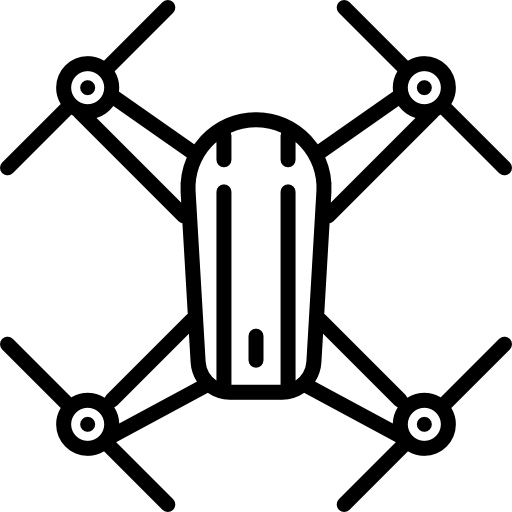
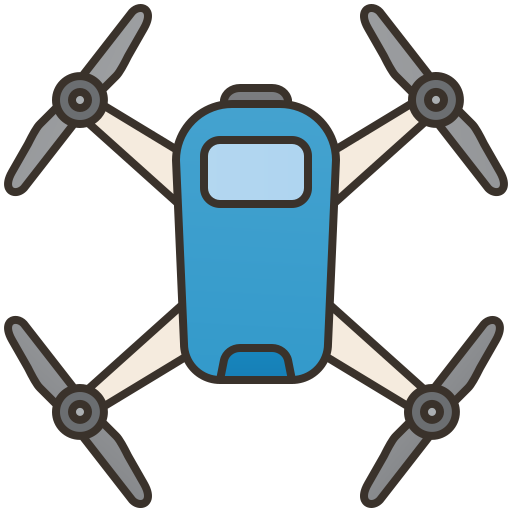
.

diff --git a/src/parser/parsing.py b/src/parser/parsing.py
@@ -3,6 +3,7 @@ from ..models.connection_class import Connection
 import sys
 class Pars_exception(Exception):
     pass
+
 class Read_input_file:
     def __init__(self):
         self.nb_drones = 0
@@ -18,7 +19,8 @@ class Read_input_file:
                 lines = file.readlines()
                 
         except FileNotFoundError as e:
-            return f"{e}"
+            print( f"{e}")
+            sys.exit(1)
 
         try:
             
@@ -35,9 +37,10 @@ class Read_input_file:
                     try:
                         value = int(value)
                     except:
-                        print(f"Error: {e}")
-                        sys.exit(1)
+                        raise Pars_exception(f"\nError:  nb_drones should be a integer\n")
+                        # sys.exit(1)
                     self.nb_drones = int(value)
+                # print(f"nb:{value}")
                 if key in ("start_hub", "hub", "end_hub"):
                     part_value = value.strip().split(" ",3)
                     if len(part_value) == 3:
@@ -47,25 +50,23 @@ class Read_input_file:
                     elif len(part_value) == 4:
                         name,x,y,meta = part_value
 
-
                     if  not isinstance(name,str):
-                        raise Pars_exception("name not  a string")
+                        raise Pars_exception("\nERROR :name not  a string\n")
                     try:
                         x = int(x)
                         y= int(y)
-                        # if x < 0 or y < 0:
-                        #     raise Pars_exception("x or y is not a valid integer")
+
                     except  ValueError:
-                        raise Pars_exception("x or y is not a valid integer")
-        
+                        raise Pars_exception("\nERROR :x or y is not a valid integer\n")
+
                     if len(part_value) == 4:
                         meta = meta.strip()
 
                         if not meta.startswith("["):
-                                raise Pars_exception("metadata  must start with '['")
-                        
+                                raise Pars_exception("\nERROR :metadata  must start with '['\n")
+
                         if not meta.endswith("]") :
-                            raise Pars_exception("metadata  must end with ']'")
+                            raise Pars_exception("\nERROR :metadata  must end with ']'\n")
                         
                         meta_content = meta[1:-1].strip()
                         met_zone = meta_content.strip().split(" ")
@@ -74,33 +75,32 @@ class Read_input_file:
                         for element in met_zone:
                             element = element.strip()
                             if "=" not in element:
-                                raise Pars_exception("meta must have '='")
-                        
-                        
+                                raise Pars_exception("\nERROR :meta must have '='\n")
+
                             meta_key,meta_value = element.split("=",1)
                             meta_key = meta_key.strip()
                             meta_value = meta_value.strip()
                             if meta_key not in ("zone","color","max_drones"):
-                                raise Pars_exception("metadata should  be a zone ,color,max_drones")
+                                raise Pars_exception("\nERROR :metadata should  be a zone ,color,max_drones\n")
                             
                             if meta_key == "zone":
                                 if meta_value not in ("normal","blocked","restricted","priority"):
-                                    raise Pars_exception("metadata zone must be 'normal,blocked,restricted,priority'")
+                                    raise Pars_exception("\nERROR :metadata zone must be 'normal,blocked,restricted,priority'\n")
                         
                             if meta_key == "max_drones":
                                 try:
                                     meta_value = int(meta_value)
                                     if  meta_value < 0:
-                                        raise Pars_exception("metadata max_drones must be a number")
+                                        raise Pars_exception("\nERROR :metadata max_drones must be a number\n")
                                 except:
-                                    raise Pars_exception("metadata max_drones must be a number")
+                                    raise Pars_exception("\nERROR :metadata max_drones must be a number\n")
                             
                             dict_meta[meta_key]=meta_value
                         meta=dict_meta
                         
                     zone = Zone(name,x,y,meta)
-                    # print(f"zone:{zone.name,zone.x,zone.y,zone.metadata}")
-                    self.zones[zone.name]= zone  
+
+                    self.zones[zone.name]= zone
                 if key == "start_hub":
                      self.star_hub = zone.name
                 if key == "end_hub":
@@ -109,45 +109,50 @@ class Read_input_file:
                 if key == "connection":
 
                     part_value =  value.strip().split(" ",1);
-                    
+                    # print("part",part_value)
                     if len(part_value) == 1:
                         part_con_name = part_value[0].split("-",1);
-                        name1,name2 = part_con_name
-                        meta_con = None
-                    
-                    
+                        if len(part_con_name) == 2:
+                            name1,name2 = part_con_name
+                            meta_con = None
+                        else:
+                            raise Pars_exception("\nERROR :connection names  should be 2\n")
 
                     elif len(part_value) == 2:
                         part_con_name = part_value[0].split("-",1)
-                        name1,name2 = part_con_name
-                        meta_con = part_value[-1]
+                        if len(part_con_name) == 2:
+                            name1,name2 = part_con_name
+                            meta_con = part_value[-1]
+                        else:
+                            # print("hi")
+                            raise Pars_exception("\nERROR :connection names  should be 2\n")
 
                         if not meta_con.startswith("["):
-                                raise Pars_exception("metadata  must start with '['")
+                                raise Pars_exception("\nERROR :metadata  must start with '['\n")
                         
                         if not meta_con.endswith("]") :
-                                raise Pars_exception("metadata  must end with ']'")
+                                raise Pars_exception("\nERROR :metadata  must end with ']'\n")
 
                         if "=" not in meta_content:
-                            raise Pars_exception("meta must have '='")
+                            raise Pars_exception("\nERROR :meta must have '='\n")
                         
                         meta_con = meta_con[1:-1].strip()
                         
                         met_con_check = meta_con.strip().split(" ",1)
                        
                         if len(met_con_check) != 1:
-                             raise Pars_exception("metadata in connection should be  just a max_link_capacity")
+                             raise Pars_exception("\nERROR :metadata in connection should be  just a max_link_capacity\n")
 
                         meta_con_key,meta_con_value = met_con_check[0].split("=",1)
 
                         if meta_con_key.strip() != "max_link_capacity":
-                            raise Pars_exception("metadata in connection should be  just a max_link_capacity")
+                            raise Pars_exception("\nERROR :metadata in connection should be  just a max_link_capacity\n")
 
                        
                         meta_con = {meta_con_key.strip(): meta_con_value.strip()}
 
                     if not isinstance(name1,str) or not isinstance(name2,str):
-                            raise Pars_exception("connection not correct")  
+                            raise Pars_exception("\nERROR :connection not correct\n")  
                     
                     connection = Connection(name1,name2,meta_con)
 
@@ -156,23 +161,32 @@ class Read_input_file:
 
                     for element in self.connections:
                         if connection.name1 == element.name1 and connection.name2 == element.name2:
-                              raise Pars_exception("connectios is duplicate",connection.name1)
+                              raise Pars_exception("\nERROR :connectios is duplicate",connection.name1)
                         if connection.name1 == element.name2 and connection.name2 == element.name1:
-                              raise Pars_exception("connectios is duplicate",connection.name1)
+                              raise Pars_exception("\nERROR :connectios is duplicate",connection.name1)
                     self.connections.append(connection)
-                        
-                            
 
+
+            coor_zones = {}
             for connection in self.connections:
-                    if connection.name1 not in self.zones:
-                       raise Pars_exception("connection is not in zones ",connection.name1)
-                    if connection.name2 not in self.zones:
-                       raise Pars_exception("connection is not in zones ",connection.name2)
-           
-             
+                    
+                    if connection.name1 in self.zones.keys() and connection.name2 in self.zones.keys():
+                        # print("in zones",name1)
+                        # print("connection", connection.name1, connection.name2)
+                        coor_zones[connection.name1] = (self.zones[connection.name1].x, self.zones[connection.name1].y)
+                        coor_zones[connection.name2] = (self.zones[connection.name2].x, self.zones[connection.name2].y)
+                        # print(coor_zones[connection.name1],coor_zones[connection.name2])
+                    if connection.name1 not in self.zones.keys():
+                       raise Pars_exception("\nconnection is not in zones ",connection.name1)
+                    if connection.name2 not in self.zones.keys():
+                       raise Pars_exception("\nconnection is not in zones ",connection.name2)
+
+            # coor_values = coor_zones.values()
+            # print(coor_zones)
+            if len(coor_zones) != len(set( coor_zones.values())):
+                raise Pars_exception("\nShould every zone have unique coordinates\n")
+
             return [self.nb_drones, self.zones,self.connections,self.star_hub,self.end_hub]
         except Pars_exception as e:
-            return f"{e}"
-
-class Parser:
-     pass
+            print( f"{e}")
+            sys.exit(1)

diff --git a/class_visualisation.py b/class_visualisation.py
@@ -135,39 +135,6 @@ class Visualisation:
                     my_capacity_zone_y = my_capacity_zone.get_height()
                     screen.blit(my_capacity_zone,((screen_x - (my_capacity_zone_x // 2)), (screen_y - (my_capacity_zone_y // 2))- 100))
 
-
-        # for element in self.drones:
-        #             i = 0
-        #             for  key,value in dict_zones.items():
-                        
-        #                 if element.current_zone == key:
-        #                         screen_x = ((value[0] - self.min_x) * scale_x + self.margin)
-        #                         screen_y = ((value[1] - self.min_y) * scale_y + self.margin)
-                                
-        #                         rotate_image = pygame.transform.rotate(drones_image,i)
-        #                         # print(i)
-        #                         # pygame.draw.circle(screen, pygame.Color("black"), (screen_x, screen_y), 10)
-        #                         my_drones_text= my_drone_text.render(f"D{element.id}", True,(255,255 ,255))
-        #                         my_drone_text_x = my_drones_text.get_width()
-        #                         my_drone_text_y = my_drones_text.get_height()
-
-        #                         if element.check_rest == 1:
-                            
-        #                             if element.path_index >= 0 :
-        #                                 # print("hna")
-        #                                 next_t = element.path[element.path_index]
-                                        
-        #                                 next_zone = dict_zones.get(next_t)
-        #                         #     # print(next_z)
-        #                                 mid_x = (value[0] + next_zone[0]) / 2
-        #                                 mid_y = (value[1] + next_zone[1]) / 2
-            
-        #                                 pygame.draw.circle(screen, "red", (mid_x, mid_y), 10)
-                                
-        #                         screen.blit(rotate_image,(screen_x - (drone_image_width // 2),screen_y - (drone_image_height // 2)))
-        #                         #### fix it ###
-        #                         screen.blit(my_drones_text,((screen_x - (my_drone_text_x // 2)), ((screen_y - (my_drone_text_y // 2))) + 100))
-
         for element in  self.drones:
               i  = 0
               for key, value in dict_zones.items():
@@ -196,14 +163,6 @@ class Visualisation:
 
                     screen.blit(my_drones_text,((screen_x - (my_drone_text_x // 2), screen_y - (my_drones_text_y // 2) + 100)))
                         
-
-
-
-        
-
-
-
-
 
         pygame.display.flip()
         clock.tick(1)

diff --git a/main.py b/main.py
@@ -22,7 +22,7 @@ algo = algo_class.Algo_dijkstra()
 
 zones_capacitys = {}
 all_dornes = []
-
+# print(rp[0])
 for i in range(rp[0]):
     # if i == 2:
     # print(f"d{i}: {zones_capacitys}")